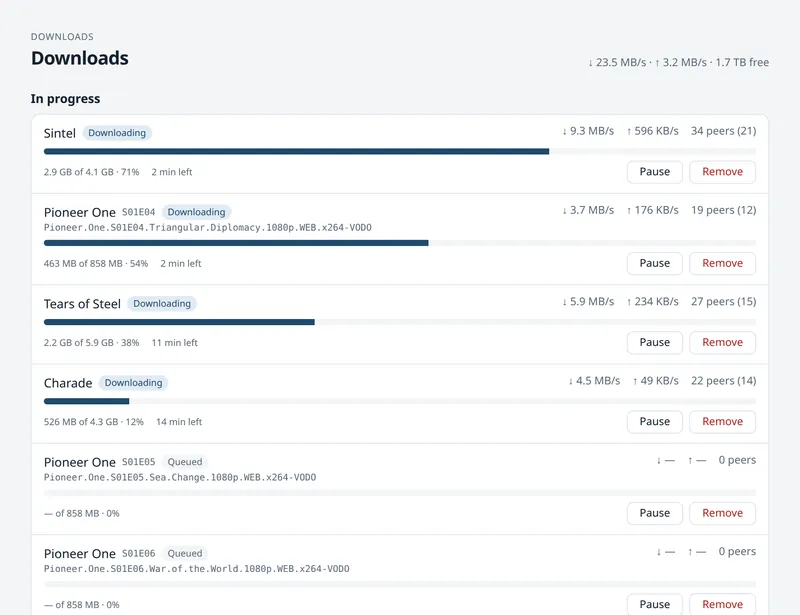
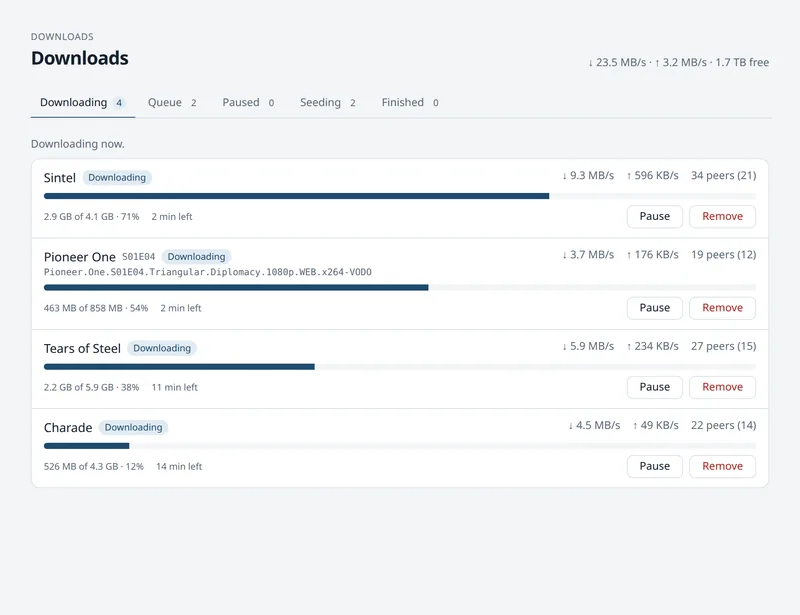
Website: cover episode picking, viewers, the download queue and twin names
- Docs: choosing seasons and episodes, the Downloads tabs and queue order,
  the no-peers pause, one DLNA name per server, and viewers (including
  the chips on a title's page).
- Docs: Settings paths follow the app's new tabs.
- Product page: captions and feature cards for the same changes.
- New screenshots of the Downloads, series and movie pages.

diff --git a/site/docs.html b/site/docs.html
@@ -247,8 +247,15 @@ docker compose up -d</code></pre>
 
     <!-- ============================================================ -->
     <h2 id="tracking">Tracking &amp; quality profiles</h2>
-    <p>Open a movie or series and press <strong>Track</strong>. Reelyard then looks for it by itself (every minute for new work, backing off from 15 minutes to a day when nothing fits), picks the best release for the title's <strong>quality profile</strong>, downloads it, and imports it. Series follow new episodes as they air; choose <em>all episodes</em>, <em>only new ones</em>, or <em>none</em>.</p>
-    <figure class="frame"><a href="img/series-main-light-1600.webp" class="shot-link"><img class="shot shot-light" src="img/series-main-light-800.webp" srcset="img/series-main-light-800.webp 800w, img/series-main-light-1600.webp 1600w" sizes="(max-width: 880px) calc(100vw - 34px), 760px" width="800" height="615" alt="A tracked series with each episode's state" loading="lazy" decoding="async"><img class="shot shot-dark" src="img/series-main-dark-800.webp" srcset="img/series-main-dark-800.webp 800w, img/series-main-dark-1600.webp 1600w" sizes="(max-width: 880px) calc(100vw - 34px), 760px" width="800" height="615" alt="A tracked series with each episode's state" loading="lazy" decoding="async"></a><figcaption>A tracked series: three episodes in the library, the rest on their way.</figcaption></figure>
+    <p>Open a movie or series and press <strong>Track</strong>. Reelyard then looks for it by itself (every minute for new work, backing off from 15 minutes to a day when nothing fits), picks the best release for the title's <strong>quality profile</strong>, downloads it, and imports it. Series follow new episodes as they air.</p>
+    <h3 id="episodes">Choosing seasons and episodes</h3>
+    <p>For a series, the Track panel asks what to get:</p>
+    <ul>
+      <li><strong>All episodes</strong>, <strong>only new ones</strong>, or <strong>None, I'll pick episodes</strong>;</li>
+      <li>which seasons, as chips (regular seasons on and specials off at first). You can change them after tracking too.</li>
+    </ul>
+    <p>In the episode list, tick <strong>get</strong> on any episode not in your library yet, or use <strong>Get whole season</strong> and <strong>Skip season</strong>. Saving a new mode or season choice applies it again to every episode; changing only the profile keeps your picks. Unticking an episode that's already downloading doesn't stop that download, only new searches.</p>
+    <figure class="frame"><a href="img/series-main-light-1600.webp" class="shot-link"><img class="shot shot-light" src="img/series-main-light-800.webp" srcset="img/series-main-light-800.webp 800w, img/series-main-light-1600.webp 1600w" sizes="(max-width: 880px) calc(100vw - 34px), 760px" width="800" height="615" alt="A tracked series with each episode's state" loading="lazy" decoding="async"><img class="shot shot-dark" src="img/series-main-dark-800.webp" srcset="img/series-main-dark-800.webp 800w, img/series-main-dark-1600.webp 1600w" sizes="(max-width: 880px) calc(100vw - 34px), 760px" width="800" height="615" alt="A tracked series with each episode's state" loading="lazy" decoding="async"></a><figcaption>A tracked series: three episodes in the library, the rest ticked to get and on their way. Under the Track panel, the viewers who can see it.</figcaption></figure>
     <h3 id="profiles">Quality profiles</h3>
     <p>A profile sets:</p>
     <ul>
@@ -265,12 +272,16 @@ docker compose up -d</code></pre>
 
     <!-- ============================================================ -->
     <h2 id="downloads">Downloads</h2>
-    <figure class="frame"><a href="img/downloads-main-light-1600.webp" class="shot-link"><img class="shot shot-light" src="img/downloads-main-light-800.webp" srcset="img/downloads-main-light-800.webp 800w, img/downloads-main-light-1600.webp 1600w" sizes="(max-width: 880px) calc(100vw - 34px), 760px" width="800" height="615" alt="The Downloads page with live progress" loading="lazy" decoding="async"><img class="shot shot-dark" src="img/downloads-main-dark-800.webp" srcset="img/downloads-main-dark-800.webp 800w, img/downloads-main-dark-1600.webp 1600w" sizes="(max-width: 880px) calc(100vw - 34px), 760px" width="800" height="615" alt="The Downloads page with live progress" loading="lazy" decoding="async"></a><figcaption>Downloads in progress, queued and sharing.</figcaption></figure>
+    <figure class="frame"><a href="img/downloads-main-light-1600.webp" class="shot-link"><img class="shot shot-light" src="img/downloads-main-light-800.webp" srcset="img/downloads-main-light-800.webp 800w, img/downloads-main-light-1600.webp 1600w" sizes="(max-width: 880px) calc(100vw - 34px), 760px" width="800" height="615" alt="The Downloads page with tabs and live progress" loading="lazy" decoding="async"><img class="shot shot-dark" src="img/downloads-main-dark-800.webp" srcset="img/downloads-main-dark-800.webp 800w, img/downloads-main-dark-1600.webp 1600w" sizes="(max-width: 880px) calc(100vw - 34px), 760px" width="800" height="615" alt="The Downloads page with tabs and live progress" loading="lazy" decoding="async"></a><figcaption>The Downloads page: what's running now, with the queue, paused, seeding and finished downloads in their own tabs.</figcaption></figure>
+    <p>The page has tabs: <strong>Downloading</strong>, <strong>Queue</strong>, <strong>Paused</strong> (paused and failed), <strong>Seeding</strong> and <strong>Finished</strong>.</p>
+    <h3 id="queue">Queue</h3>
+    <p>When all download slots are busy, the rest wait in the queue. Those with the most seeders start first, then those whose count isn't known yet, then those with none; among equals, the oldest first. The Queue tab lists them in that order with their seeder count. Counts come from the release when it's picked, and Reelyard asks your suppliers again for queued downloads that don't have one.</p>
+    <p>While others are waiting, a download that has had no peers and no data for 10 minutes is paused (shown as a grey "no peers" note) to free its slot. For a tracked title, that release is blocked and Reelyard looks for another. Downloads you pause yourself are left alone.</p>
     <h3 id="sharing">Sharing</h3>
     <p>Finished downloads keep sharing until the title's profile ratio or time limit (for downloads you started by hand: <strong>Settings → Downloads</strong>), whichever comes first. Then sharing stops, and if the file is in your library its download copy is deleted. The library file stays: it's a hardlink or a copy.</p>
     <h3 id="stalls">Stalls and disk space</h3>
     <ul>
-      <li>Downloads that make no progress for 30 minutes (adjustable) fail; tracked titles then try another release.</li>
+      <li>Downloads that make no progress for 30 minutes (adjustable) fail; tracked titles then try another release. When others are waiting in the queue, a download with no peers is paused after 10 minutes instead (see <a href="#queue">Queue</a>).</li>
       <li>Downloads that wouldn't fit on disk, keeping 2 GB free (adjustable), are refused.</li>
       <li>Speed limits and how many downloads run at once are set in <strong>Settings → Downloads</strong>.</li>
     </ul>
@@ -287,16 +298,27 @@ TV/Breaking Bad (2008)/Season 01/Breaking Bad (2008) - S01E02 - Cat's in the Bag
 
     <!-- ============================================================ -->
     <h2 id="dlna">Watching on a TV (DLNA)</h2>
-    <p>Reelyard has its own DLNA server, on by default. TVs, game consoles and players like VLC on your network list it as <strong>Reelyard</strong> (rename it in <strong>Settings → DLNA server</strong>) and play straight from the library, with seeking.</p>
+    <p>Reelyard has its own DLNA server, on by default. TVs, game consoles and players like VLC on your network list it as <strong>Reelyard</strong> (rename it in <strong>Settings → TVs (DLNA)</strong>) and play straight from the library, with seeking.</p>
     <ul>
       <li>Subtitles saved next to a video are offered with it, in your subtitle-language order (Samsung TVs get them too).</li>
       <li>Thumbnails need <code>ffmpeg</code>; durations need <code>ffprobe</code>.</li>
       <li>Turn on converted versions in the DLNA settings for TVs that can't play a file (needs <code>ffmpeg</code>).</li>
       <li>Where you stopped and what you've watched are shared with TVs that support it.</li>
     </ul>
+    <h3 id="dlna-name">One name per server</h3>
+    <p>TVs tell DLNA servers apart by a device ID made from the server's name, so two Reelyards on the same network both called "Reelyard" get mixed up: the TV acts as if the server keeps restarting. Give each its own name (for example "Reelyard NAS" and "Reelyard PC"). Reelyard looks for a twin when it starts and every 10 minutes, and warns in <strong>Settings → TVs (DLNA)</strong> when it finds one.</p>
+    <h3 id="viewers">Viewers: a server per family member</h3>
+    <p>TVs don't sign in, so each person who watches gets their own server in the TV's sources: <strong>Settings → Viewers → Add viewer</strong> creates, say, "Reelyard · Kids" next to the main "Reelyard". On a viewer's server:</p>
+    <ul>
+      <li>watched marks and resume points are theirs, and a <strong>Continue watching</strong> folder at the top lists what they're halfway through (the main server has one for your account too);</li>
+      <li><strong>Only titles I choose</strong> limits it to the films and series you pick; other titles don't appear and their files can't be opened from that server;</li>
+      <li><strong>Show on these TVs</strong> shows it only on the TVs you tick (the main server has the same option). TVs are listed once they've opened any Reelyard server and are told apart by address, so give each a fixed IP in your router.</li>
+    </ul>
+    <p>You can also choose from a title's own page: under the Track panel, <strong>Viewers who can see this</strong> has a chip per viewer. Click a limited viewer to give or take away that title (for a series, all its episodes, including future ones). Viewers who see the whole library show as "Name · all".</p>
+    <p>Each viewer's server uses the next port after the main one (8201, 8202, …); allow those in your firewall too. Anyone using a TV that shows a server can open it: hide the main server from a child's TV, and don't rely on this to keep a determined person out.</p>
     <h3 id="dlna-network">Network</h3>
     <ul>
-      <li>It uses TCP port <strong>8200</strong> and SSDP (UDP 1900, multicast); allow both in your firewall.</li>
+      <li>It uses TCP port <strong>8200</strong> (and 8201, 8202, … for <a href="#viewers">viewers</a>) and SSDP (UDP 1900, multicast); allow both in your firewall.</li>
       <li>Only devices on private networks (192.168.x, 10.x, 172.16–31.x, link-local) can connect.</li>
       <li>It isn't announced on your VPN interface or, unless you choose them, on Docker/VM bridges.</li>
       <li>In Docker, use host networking; multicast doesn't cross Docker's bridge network.</li>
@@ -305,7 +327,7 @@ TV/Breaking Bad (2008)/Season 01/Breaking Bad (2008) - S01E02 - Cat's in the Bag
     <!-- ============================================================ -->
     <h2 id="media-servers">Jellyfin, Emby and Plex</h2>
     <p>Point your media server's Movies and Shows libraries at <code>library/Movies</code> and <code>library/TV</code>.</p>
-    <p>In <strong>Settings → Jellyfin, Emby and Plex</strong>, add the server's address and an API key (Jellyfin, Emby) or <code>X-Plex-Token</code> (Plex); <strong>Test connection</strong> checks both. Reelyard then asks it to rescan about 30 seconds after new files arrive (several imports close together share one rescan). Keys are stored in Reelyard's database and never sent back to the browser.</p>
+    <p>In <strong>Settings → Library → Jellyfin, Emby and Plex</strong>, add the server's address and an API key (Jellyfin, Emby) or <code>X-Plex-Token</code> (Plex); <strong>Test connection</strong> checks both. Reelyard then asks it to rescan about 30 seconds after new files arrive (several imports close together share one rescan). Keys are stored in Reelyard's database and never sent back to the browser.</p>
 
     <!-- ============================================================ -->
     <h2 id="vpn">Using a VPN</h2>
@@ -408,7 +430,7 @@ echo 'new password' | reelyard reset-password --password-stdin</code></pre>
 
     <!-- ============================================================ -->
     <h2 id="api">API</h2>
-    <p>Everything the UI does goes through <code>/api/v1</code>. Scripts can use an API key from <strong>Settings → API keys</strong>, sent as the <code>X-Api-Key</code> header (<code>Authorization: Bearer hbr_...</code> works too):</p>
+    <p>Everything the UI does goes through <code>/api/v1</code>. Scripts can use an API key from <strong>Settings → Apps and API</strong>, sent as the <code>X-Api-Key</code> header (<code>Authorization: Bearer hbr_...</code> works too):</p>
 <pre><code>curl -H "X-Api-Key: hbr_..." http://localhost:8787/api/v1/system</code></pre>
     <p>The app API is described in OpenAPI at <code>/api/v1/openapi.yaml</code> on your own server. <code>/api/v1/health</code> reports the running version.</p>
 
@@ -417,10 +439,10 @@ echo 'new password' | reelyard reset-password --password-stdin</code></pre>
     <p>Reelyard's apps for TVs, phones and computers (<a href="https://github.com/Reelyard/clients">Reelyard/clients</a>) sign in with a pairing code instead of a password:</p>
     <ol>
       <li>The app calls <code>POST /api/v1/devices/pair</code> with <code>{"name": "Living room TV", "platform": "tizen"}</code> and shows the <code>code</code> it gets back (for example <code>K7Q-4MD</code>).</li>
-      <li>You enter that code under <strong>Settings → Devices</strong>.</li>
+      <li>You enter that code under <strong>Settings → Apps and API</strong>.</li>
       <li>The app, polling <code>POST /api/v1/devices/pair/token</code> with its <code>pollSecret</code>, gets its own token (<code>hbd_...</code>) and sends it as <code>Authorization: Bearer hbd_...</code>.</li>
     </ol>
-    <p>Codes work for 10 minutes. <strong>Settings → Devices</strong> lists every device and signs any of them out.</p>
+    <p>Codes work for 10 minutes. <strong>Settings → Apps and API</strong> lists every device and signs any of them out.</p>
     <h3 id="playback-api">Playback endpoints</h3>
     <div class="table-scroll">
     <table>

diff --git a/site/index.html b/site/index.html
@@ -72,9 +72,9 @@
       <p>The web UI runs on your own machine, at port 8787, and you open it in any browser.</p>
     </div>
     <div class="gallery">
-      <figure class="frame"><a href="img/downloads-light-2200.webp" class="shot-link"><img class="shot shot-light" src="img/downloads-light-1100.webp" srcset="img/downloads-light-1100.webp 1100w, img/downloads-light-2200.webp 2200w" sizes="(max-width: 1120px) calc(100vw - 34px), 1088px" width="1100" height="688" alt="Downloads page with live speeds, peers and progress for each torrent" loading="lazy" decoding="async"><img class="shot shot-dark" src="img/downloads-dark-1100.webp" srcset="img/downloads-dark-1100.webp 1100w, img/downloads-dark-2200.webp 2200w" sizes="(max-width: 1120px) calc(100vw - 34px), 1088px" width="1100" height="688" alt="Downloads page with live speeds, peers and progress for each torrent" loading="lazy" decoding="async"></a><figcaption><strong>Downloads.</strong> Live speed, peers and time left, plus what's still being shared after it finishes.</figcaption></figure>
-      <figure class="frame"><a href="img/series-light-2200.webp" class="shot-link"><img class="shot shot-light" src="img/series-light-1100.webp" srcset="img/series-light-1100.webp 1100w, img/series-light-2200.webp 2200w" sizes="(max-width: 1120px) calc(100vw - 34px), 1088px" width="1100" height="688" alt="A tracked series showing which episodes are in the library and which are downloading" loading="lazy" decoding="async"><img class="shot shot-dark" src="img/series-dark-1100.webp" srcset="img/series-dark-1100.webp 1100w, img/series-dark-2200.webp 2200w" sizes="(max-width: 1120px) calc(100vw - 34px), 1088px" width="1100" height="688" alt="A tracked series showing which episodes are in the library and which are downloading" loading="lazy" decoding="async"></a><figcaption><strong>Series follow themselves.</strong> Each episode shows whether it's in your library, downloading, or not out yet.</figcaption></figure>
-      <figure class="frame"><a href="img/movie-light-2200.webp" class="shot-link"><img class="shot shot-light" src="img/movie-light-1100.webp" srcset="img/movie-light-1100.webp 1100w, img/movie-light-2200.webp 2200w" sizes="(max-width: 1120px) calc(100vw - 34px), 1088px" width="1100" height="688" alt="A movie's page: the library file with its subtitles, and the available releases checked against the quality profile" loading="lazy" decoding="async"><img class="shot shot-dark" src="img/movie-dark-1100.webp" srcset="img/movie-dark-1100.webp 1100w, img/movie-dark-2200.webp 2200w" sizes="(max-width: 1120px) calc(100vw - 34px), 1088px" width="1100" height="688" alt="A movie's page: the library file with its subtitles, and the available releases checked against the quality profile" loading="lazy" decoding="async"></a><figcaption><strong>Every release, explained.</strong> See which releases fit the profile and why, and the subtitles saved next to your file.</figcaption></figure>
+      <figure class="frame"><a href="img/downloads-light-2200.webp" class="shot-link"><img class="shot shot-light" src="img/downloads-light-1100.webp" srcset="img/downloads-light-1100.webp 1100w, img/downloads-light-2200.webp 2200w" sizes="(max-width: 1120px) calc(100vw - 34px), 1088px" width="1100" height="688" alt="Downloads page with tabs for downloading, queue, paused, seeding and finished, and live speeds, peers and progress" loading="lazy" decoding="async"><img class="shot shot-dark" src="img/downloads-dark-1100.webp" srcset="img/downloads-dark-1100.webp 1100w, img/downloads-dark-2200.webp 2200w" sizes="(max-width: 1120px) calc(100vw - 34px), 1088px" width="1100" height="688" alt="Downloads page with tabs for downloading, queue, paused, seeding and finished, and live speeds, peers and progress" loading="lazy" decoding="async"></a><figcaption><strong>Downloads.</strong> Live speed, peers and time left. Tabs split what's running, the queue (best-seeded first), paused, sharing and finished.</figcaption></figure>
+      <figure class="frame"><a href="img/series-light-2200.webp" class="shot-link"><img class="shot shot-light" src="img/series-light-1100.webp" srcset="img/series-light-1100.webp 1100w, img/series-light-2200.webp 2200w" sizes="(max-width: 1120px) calc(100vw - 34px), 1088px" width="1100" height="688" alt="A tracked series showing which episodes are in the library and which are downloading" loading="lazy" decoding="async"><img class="shot shot-dark" src="img/series-dark-1100.webp" srcset="img/series-dark-1100.webp 1100w, img/series-dark-2200.webp 2200w" sizes="(max-width: 1120px) calc(100vw - 34px), 1088px" width="1100" height="688" alt="A tracked series showing which episodes are in the library and which are downloading" loading="lazy" decoding="async"></a><figcaption><strong>Series follow themselves.</strong> Get every episode, only new ones, or just the seasons and episodes you tick. Each shows whether it's in your library, downloading, or not out yet.</figcaption></figure>
+      <figure class="frame"><a href="img/movie-light-2200.webp" class="shot-link"><img class="shot shot-light" src="img/movie-light-1100.webp" srcset="img/movie-light-1100.webp 1100w, img/movie-light-2200.webp 2200w" sizes="(max-width: 1120px) calc(100vw - 34px), 1088px" width="1100" height="688" alt="A movie's page: the library file with its subtitles, and the available releases checked against the quality profile" loading="lazy" decoding="async"><img class="shot shot-dark" src="img/movie-dark-1100.webp" srcset="img/movie-dark-1100.webp 1100w, img/movie-dark-2200.webp 2200w" sizes="(max-width: 1120px) calc(100vw - 34px), 1088px" width="1100" height="688" alt="A movie's page: the library file with its subtitles, and the available releases checked against the quality profile" loading="lazy" decoding="async"></a><figcaption><strong>Every release, explained.</strong> See which releases fit the profile and why, the subtitles saved next to your file, and which family members can see it on their TV.</figcaption></figure>
       <figure class="frame"><a href="img/profiles-light-2200.webp" class="shot-link"><img class="shot shot-light" src="img/profiles-light-1100.webp" srcset="img/profiles-light-1100.webp 1100w, img/profiles-light-2200.webp 2200w" sizes="(max-width: 1120px) calc(100vw - 34px), 1088px" width="1100" height="688" alt="Quality profiles: HD 1080p, 4K and Small, with sizes, languages and seeders" loading="lazy" decoding="async"><img class="shot shot-dark" src="img/profiles-dark-1100.webp" srcset="img/profiles-dark-1100.webp 1100w, img/profiles-dark-2200.webp 2200w" sizes="(max-width: 1120px) calc(100vw - 34px), 1088px" width="1100" height="688" alt="Quality profiles: HD 1080p, 4K and Small, with sizes, languages and seeders" loading="lazy" decoding="async"></a><figcaption><strong>Quality profiles.</strong> Screen sizes, file sizes, audio and subtitle languages, and the minimum number of seeders.</figcaption></figure>
     </div>
     <p class="shots-note">Shown with public-domain and Creative Commons titles.</p>
@@ -101,12 +101,12 @@
       <div class="card">
         <div class="ic"><svg viewBox="0 0 24 24" fill="none" stroke="currentColor" stroke-width="2" stroke-linecap="round" stroke-linejoin="round"><path d="M12 3v12m0 0-4-4m4 4 4-4"/><path d="M4 17v2a2 2 0 0 0 2 2h12a2 2 0 0 0 2-2v-2"/></svg></div>
         <h3>Built-in torrent engine</h3>
-        <p>Speed limits, sharing until a ratio or time limit, stall detection with automatic retries, and disk-space checks before anything starts.</p>
+        <p>Best-seeded downloads go first, dead ones are swapped for another release, sharing stops at a ratio or time limit, and disk space is checked before anything starts.</p>
       </div>
       <div class="card">
         <div class="ic"><svg viewBox="0 0 24 24" fill="none" stroke="currentColor" stroke-width="2" stroke-linecap="round" stroke-linejoin="round"><rect x="3" y="4" width="18" height="14" rx="2"/><path d="M8 21h8"/></svg></div>
         <h3>DLNA server for your TV</h3>
-        <p>TVs, consoles and VLC find <em>Reelyard</em> on your network and play with seeking, subtitles, thumbnails, resume points and watched marks.</p>
+        <p>TVs, consoles and VLC find <em>Reelyard</em> on your network and play with seeking, subtitles and resume points. Each family member can get their own server, limited to the titles you choose.</p>
       </div>
       <div class="card">
         <div class="ic"><svg viewBox="0 0 24 24" fill="none" stroke="currentColor" stroke-width="2" stroke-linecap="round" stroke-linejoin="round"><path d="M4 4h6v6H4zM14 4h6v6h-6zM4 14h6v6H4zM14 14h6v6h-6z"/></svg></div>
